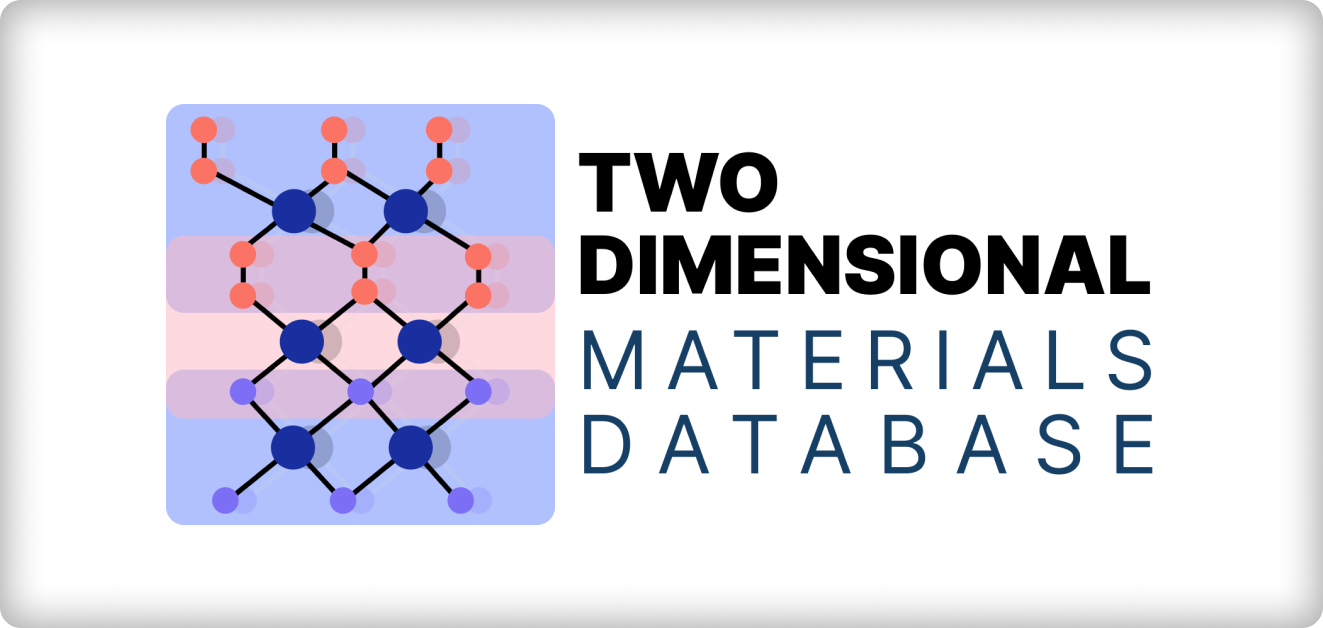
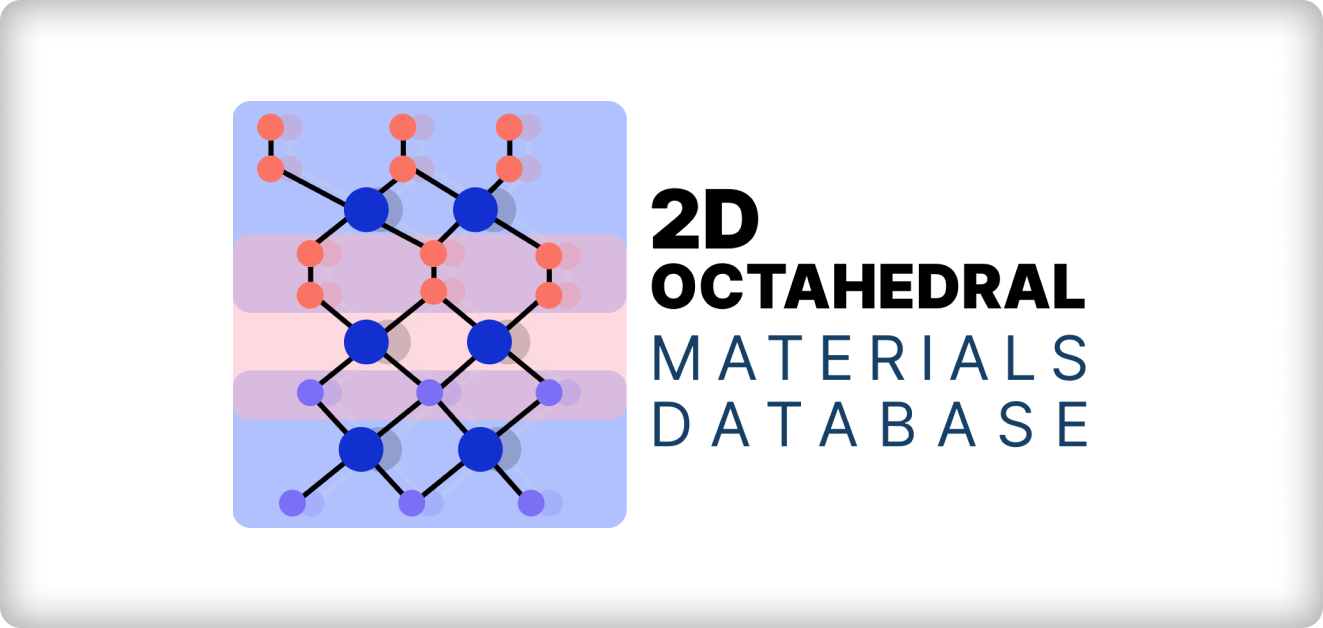
update 2DO database details

Changed region(s): [[0.124, 0.1513, 0.8677, 0.8471]]

diff --git a/pages/apps/2D/index.js b/pages/apps/2D/index.js
@@ -31,7 +31,9 @@ export default function TwoDMaterials() {
                 </div>
                 <div className="lg:w-1/2 w-full px-8 pt-5 md:pt-0  text-center flex flex-col-reverse lg:flex-col">
                     <p className="md:text-xl text-lg text-white lg:text-justify">
-                        To be updated...
+                        Octahedral two-dimensional materials are considered to be promising photocatalysts. Apart from catalysis, these materials also have 
+                        extensive applications in spintronics, 2D ferromagnets, quantum computers, and topological insulators, to name a few.  A database of 
+                        3099 octahedral 2D materials, termed as 2DO database is available with their calculated properties to date. 
                     </p>
                     <Link href="/apps/2D/search">
                         <button

diff --git a/components/home/Apps/Apps.js b/components/home/Apps/Apps.js
@@ -17,7 +17,7 @@ const AppData = [
   },
   {
     name: "2D Materials Database",
-    description: "To be updated...",
+    description: "Contains details of 3099 octahedral two-dimensional materials, with downloadable POSCARs",
     image: "/images/2DDatabaseCard.png",
     link: "/apps/2D"
   },
